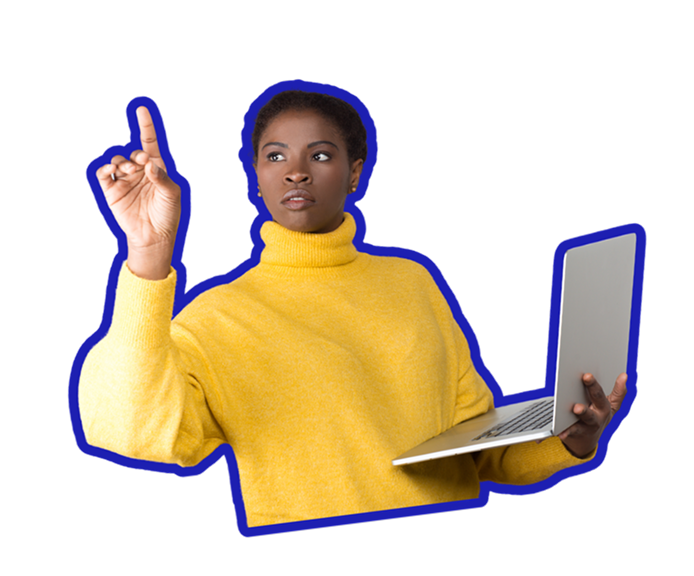
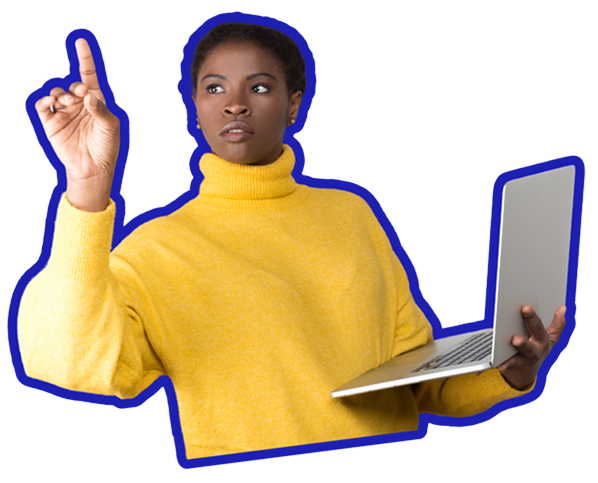
The dark mode theme

diff --git a/src/components/Navbar.tsx b/src/components/Navbar.tsx
@@ -3,7 +3,7 @@
 import { useState, useEffect } from "react"
 import { motion } from "framer-motion"
 import { Menu, X } from "lucide-react"
-import Logo from "/Logo.png"
+import Logo from "/Logow.png"
 import Button from "./Button"
 
 const Navbar = () => {
@@ -20,7 +20,7 @@ const Navbar = () => {
 
     return (
         <motion.header
-            className={`fixed top-0 left-0 right-0 z-50 py-4 px-6 transition-all duration-300 ${scrolled ? "bg-cream/95 backdrop-blur-sm shadow-sm" : "bg-transparent"
+            className={`fixed top-0 left-0 right-0 z-50 py-4 px-6 transition-all duration-300 ${scrolled ? "b/95 backdrop-blur-sm !text-black shadow-sm" : "bg-transparent"
                 }`}
             initial={{ y: -100 }}
             animate={{ y: 0 }}
@@ -31,13 +31,13 @@ const Navbar = () => {
 
                 {/* Desktop Navigation */}
                 <nav className="hidden md:flex items-center space-x-8 sec_text">
-                    <a href="#events" className="text-black font-semibold hover:text-black transition-colors">
+                    <a href="#events" className="text-white font-semibold hover:text-black transition-colors">
                         &gt; Home
                     </a>
-                    <a href="#about" className="text-gray-400 hover:text-black transition-colors">
+                    <a href="#about" className="text-gray-200 hover:text-black transition-colors">
                         About
                     </a>
-                    <a href="#blog" className="text-gray-400 hover:text-black transition-colors">
+                    <a href="#blog" className="text-gray-200 hover:text-black transition-colors">
                         Program
                     </a>
 
@@ -63,31 +63,31 @@ const Navbar = () => {
                     <nav className="flex flex-col space-y-4 sec_text">
                         <a
                             href="#events"
-                            className="text-black hover:text-purple-600 transition-colors py-2"
+                            className="text-white hover:text-purple-600 transition-colors py-2"
                             onClick={() => setIsOpen(false)}
                         >
                             Events
                         </a>
                         <a
                             href="#about"
-                            className="text-gray-800 hover:text-purple-600 transition-colors py-2"
+                            className="text-gray-200 hover:text-purple-600 transition-colors py-2"
                             onClick={() => setIsOpen(false)}
                         >
                             About
                         </a>
                         <a
                             href="#blog"
-                            className="text-gray-800 hover:text-purple-600 transition-colors py-2"
+                            className="text-gray-200 hover:text-purple-600 transition-colors py-2"
                             onClick={() => setIsOpen(false)}
                         >
                             Blog
                         </a>
                         <motion.button
-                            className=" text-black rounded-full flex  s w-full"
+                            className=" text-white rounded-full flex  s w-full"
                             whileHover={{ scale: 1.05 }}
                             whileTap={{ scale: 0.95 }}
                         >
-                             <Button text="Apply Now" bg="bg-[#DED6E8]" />
+                             <Button text="Apply Now" bg="bg-[#7d7dfd]" />
                         </motion.button>
                     </nav>
                 </motion.div>

diff --git a/src/pages/Landing_Page/HeroSection.jsx b/src/pages/Landing_Page/HeroSection.jsx
@@ -191,7 +191,7 @@ const HeroSection = () => {
   }
 
   return (
-    <section className="pt-32 pb-16 px-4 relative overflow-hidden">
+    <section className="pt-32  h-max px-4 relative overflow-hidden">
       {/* Animated stars */}
       <motion.div
         initial={{ opacity: 0 }}
@@ -211,16 +211,10 @@ const HeroSection = () => {
       </motion.div>
 
       {/* Code symbol */}
-      <motion.div
-        initial={{ rotate: 0 }}
-        animate={{ rotate: 360 }}
-        transition={{ duration: 20, repeat: Number.POSITIVE_INFINITY, ease: "linear" }}
-        className="absolute top-40 left-[10%] text-purple-500/30"
-      >
-        <Code size={32} />
-      </motion.div>
+     
+     
 
-      <div className="container mx-auto max-w-6xl">
+      <div className="container  mx-auto max-w-6xl">
 
         <div className="text-center mb-16">
           <div className="flex justify-between w-full ">
@@ -234,7 +228,7 @@ const HeroSection = () => {
             </motion.div>
           </div>
           <motion.h1
-            className="inline-flex flex-col items-center justify-center text-3xl  md:text-5xl main_text lg:text-6xl text-center font-bold mb-4 realtive leading-tight"
+            className="inline-flex main_text flex-col items-center justify-center text-3xl  md:text-5xl main_text lg:text-6xl text-center font-bold mb-4 realtive leading-tight"
             variants={itemVariants}
           >
               Level Up Your
@@ -262,7 +256,7 @@ const HeroSection = () => {
           </motion.p>
 
           <motion.button
-            className="bg-[#def134] sec_text hover:bg-yellow-500 button font-semibold text-gray-900 px-6 py-3 rounded-full  flex items-center space-x-2"
+            className="bg-[#def134] sec_text mx-auto hover:bg-yellow-500 button font-semibold text-gray-900 px-6 py-3 rounded-full  flex items-center space-x-2"
             variants={itemVariants}
             whileHover={{ scale: 1.05 }}
             whileTap={{ scale: 0.95 }}
@@ -272,11 +266,11 @@ const HeroSection = () => {
           </motion.button>
         </div>
 
-        <motion.div className="relative flex justify-center items-end z-10" variants={itemVariants}>
+        <motion.div className="relative flex w-full justify-center items-end z-10" variants={itemVariants}>
           <motion.img
             src={Hero2}
             alt="Students with tech devices"
-            className="w-1/2 lg:w-full h-auto object-contain"
+            className="w-1/2 lg:w-auto h-auto object-contain"
             initial={{ opacity: 0, y: 20 }}
             animate={{ opacity: 1, y: 0 }}
             transition={{ duration: 0.6, delay: 0.3 }}
@@ -284,15 +278,15 @@ const HeroSection = () => {
           <motion.img
             src={Hero1}
             alt="Students with tech devices"
-            className="w-[70%] lg:w-full h-auto object-contain"
+            className="w-[70%] lg:w-auto h-auto object-contain"
             initial={{ opacity: 0, y: 20 }}
             animate={{ opacity: 1, y: 0 }}
             transition={{ duration: 0.6, delay: 0.3 }}
           />
         </motion.div>
 
-        <div className="absolute bottom-0 left-0 right-0 h-32 bg-gradient-to-t from-cream to-transparent z-20 pointer-events-none"></div>
-
+        <div className="absolute bottom-0 left-0 right-0 h-32 bg-gradient-to-t from-black to-transparent z-30 pointer-events-none"></div>
+b
       </div>
     </section>
   )

diff --git a/src/index.css b/src/index.css
@@ -1,22 +1,41 @@
+@import url('https://fonts.googleapis.com/css2?family=Bricolage+Grotesque:opsz,wght@12..96,200..800&display=swap');
+
 @tailwind base;
 @tailwind components;
 @tailwind utilities;
-
 :root {
-  --cream: #FEFBEA;
+  --cream: #1d1b14;
   --purple: #8b5cf6;
   --yellow: #fbbf24;
   --pink: #ec4899;
 }
 
 body {
-  font-family: "Inter", -apple-system, BlinkMacSystemFont, "Segoe UI", Roboto, Oxygen, Ubuntu, Cantarell, "Open Sans",
-    "Helvetica Neue", sans-serif;
+ 
   -webkit-font-smoothing: antialiased;
   -moz-osx-font-smoothing: grayscale;
   overflow-x: hidden;
   background-color: var(--cream);
 }
+
+
+
+@font-face {
+  font-family:"Light";
+  src: url('/fonts/light.ttf');
+}
+@font-face {
+  font-family: "Bold" ;
+  src: url('/fonts/bold.ttf');
+}
+.main_text{
+  font-family: "Bricolage Grotesque";
+}
+.sec_text{
+  font-family: "Light";
+}
+
+
 
 .bg-cream {
   background-color: var(--cream);

diff --git a/index.html b/index.html
@@ -6,8 +6,9 @@
     <meta name="viewport" content="width=device-width, initial-scale=1.0" />
     <title>My-Path-2-Tech</title>
     <link rel="preconnect" href="https://fonts.googleapis.com">
-    <link rel="preconnect" href="https://fonts.gstatic.com" crossorigin>
-    <link href="https://fonts.googleapis.com/css2?family=Inter:wght@400;500;600;700&display=swap" rel="stylesheet">
+<link rel="preconnect" href="https://fonts.gstatic.com" crossorigin>
+<link href="https://fonts.googleapis.com/css2?family=Bricolage+Grotesque:opsz,wght@12..96,200..800&display=swap" rel="stylesheet">
+    <!-- <link href="https://fonts.googleapis.com/css2?family=Inter:wght@400;500;600;700&display=swap" rel="stylesheet"> -->
     <meta name="description" content="Join Hack-A-Path, a supportive tech community to level up your skills and accelerate your career journey.">
   </head>
   <body>

diff --git a/src/components/Button.tsx b/src/components/Button.tsx
@@ -7,7 +7,7 @@ interface ButtonProps {
 function Button({ text, bg }: ButtonProps) {
     return (
         <div>    <motion.button
-            className={`${bg} button text-black px-4 py-2 rounded-full flex items-center justify-center space-x-2 w-full`}
+            className={`${bg} button text-black px-4 py-2 rounded-xl flex items-center justify-center space-x-2 w-full`}
             whileHover={{ scale: 1.05 }}
             whileTap={{ scale: 0.95 }}
         >
